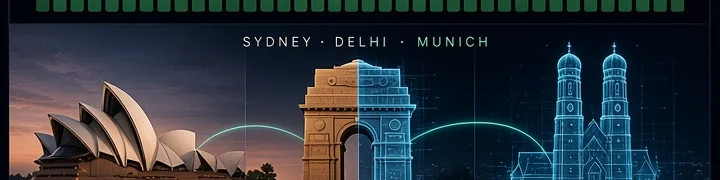
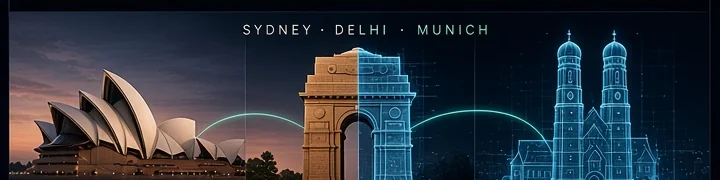
fix: trim painted contrib row from cities raster seam
The cities.webp crop started at concept y=720, including a painted
contribution grid row that read as a full-width green strip above the
Sydney/Delhi/Munich band. Offset the crop to y=732.

diff --git a/scripts/extract-rasters.py b/scripts/extract-rasters.py
@@ -17,7 +17,8 @@ SECTIONS = {
     "hero-lower": (0, 118, 720, 486),
     "hero": (0, 0, 720, 486),
     "contributions": (0, 486, 720, 720),
-    "cities": (0, 720, 720, 900),
+    # Skip ~12px at concept y=720: painted contrib grid row (not part of cities art).
+    "cities": (0, 732, 720, 912),
     "planets": (0, 900, 720, 1040),
     "orbital": (0, 1040, 720, 1280),
 }

diff --git a/README.md b/README.md
@@ -1,1 +1,1 @@
-<p align="center"><img src="assets/profile.svg?v=0fcfa37" width="720" border="0" alt="Shaurya Kansal — Founder, SCYCLE AI, building Yuga"></p>
+<p align="center"><img src="assets/profile.svg?v=606c3fd" width="720" border="0" alt="Shaurya Kansal — Founder, SCYCLE AI, building Yuga"></p>
